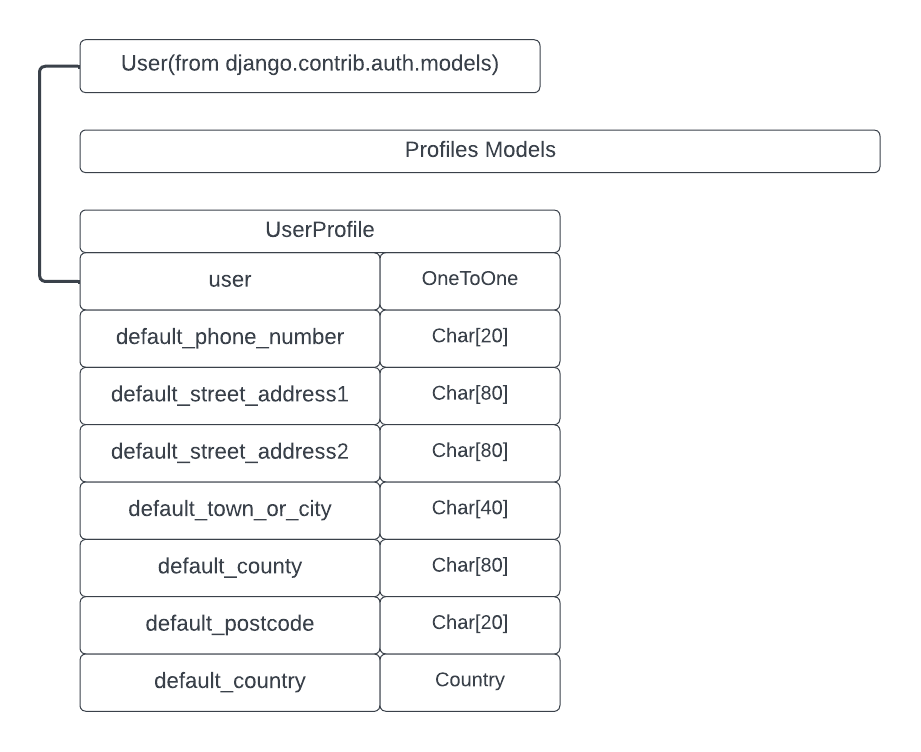
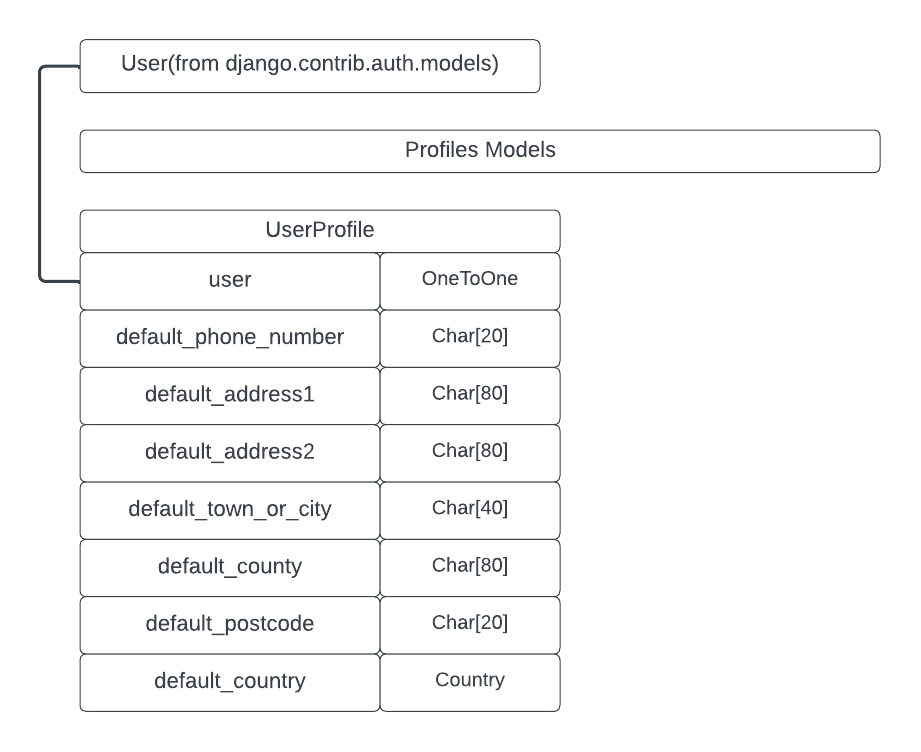
Update UserProfile to fix post PEP8 syntax error

Changed region(s): [[0.1216, 0.5811, 0.3952, 0.6117], [0.1216, 0.5199, 0.3648, 0.5505]]

diff --git a/checkout/static/checkout/js/stripe_elements.js b/checkout/static/checkout/js/stripe_elements.js
@@ -87,8 +87,8 @@ form.addEventListener('submit',function (ev) {
                 name: $.trim(form.full_name.value),
                 phone: $.trim(form.phone_number.value),
                 address: {
-                    1: $.trim(form.street_address1.value),
-                    2: $.trim(form.street_address2.value),
+                    line1: $.trim(form.street_address1.value),
+                    line2: $.trim(form.street_address2.value),
                     city: $.trim(form.town_or_city.value),
                     country: $.trim(form.country.value),
                     postal_code: $.trim(form.postcode.value),

diff --git a/static/css/base.css b/static/css/base.css
@@ -50,8 +50,8 @@ h5 {
 }
 
 #id_default_phone_number,
-#id_default_street_address1,
-#id_default_street_address2,
+#id_default_address1,
+#id_default_address2,
 #id_default_town_or_city,
 #id_default_county,
 #id_default_postcode,

diff --git a/checkout/webhook_handler.py b/checkout/webhook_handler.py
@@ -83,8 +83,8 @@ class StripeWH_Handler:
                 profile.default_country = shipping_details.address.country
                 profile.default_postcode = shipping_details.address.postal_code
                 profile.default_town_or_city = shipping_details.address.city
-                profile.default_street_address1 = shipping_details.address.1
-                profile.default_street_address2 = shipping_details.address.2
+                profile.default_address1 = shipping_details.address.line1
+                profile.default_address2 = shipping_details.address.line2
                 profile.default_county = shipping_details.address.state
                 profile.save()
 
@@ -99,8 +99,8 @@ class StripeWH_Handler:
                     country__iexact=shipping_details.address.country,
                     postcode__iexact=shipping_details.address.postal_code,
                     town_or_city__iexact=shipping_details.address.city,
-                    street_address1__iexact=shipping_details.address.1,
-                    street_address2__iexact=shipping_details.address.2,
+                    street_address1__iexact=shipping_details.address.line1,
+                    street_address2__iexact=shipping_details.address.line2,
                     county__iexact=shipping_details.address.state,
                     grand_total=grand_total,
                     original_cart=cart,
@@ -127,8 +127,8 @@ class StripeWH_Handler:
                     country=shipping_details.address.country,
                     postcode=shipping_details.address.postal_code,
                     town_or_city=shipping_details.address.city,
-                    street_address1=shipping_details.address.1,
-                    street_address2=shipping_details.address.2,
+                    street_address1=shipping_details.address.line1,
+                    street_address2=shipping_details.address.line2,
                     county=shipping_details.address.state,
                     original_cart=cart,
                     stripe_pid=pid,

diff --git a/profiles/forms.py b/profiles/forms.py
@@ -53,8 +53,8 @@ class UserProfileForm(forms.ModelForm):
             'default_phone_number': 'Phone Number',
             'default_postcode': 'Postal Code',
             'default_town_or_city': 'Town or City',
-            'default_street_address1': 'Street Address (house, street)',
-            'default_street_address2': 'Street Address (additional info)',
+            'default_address1': 'Street Address (house, street)',
+            'default_address2': 'Street Address (additional info)',
             'default_county': 'County, State or Locality',
         }
         # Based on Teetime
@@ -62,8 +62,8 @@ class UserProfileForm(forms.ModelForm):
             'default_phone_number': 'Delivery phone number of the user',
             'default_postcode': 'Delivery postal code of the user',
             'default_town_or_city': 'Delivery town or city of the user',
-            'default_street_address1': 'Delivery street address 1 of the user',
-            'default_street_address2': 'Delivery street address 2 of the user',
+            'default_address1': 'Delivery street address 1 of the user',
+            'default_address2': 'Delivery street address 2 of the user',
             'default_county': 'Delivery county, or locality of the user',
             'default_country': 'Delivery country of the user',
         }

diff --git a/checkout/views.py b/checkout/views.py
@@ -114,8 +114,8 @@ def checkout(request):
                     'country': profile.default_country,
                     'postcode': profile.default_postcode,
                     'town_or_city': profile.default_town_or_city,
-                    'street_address1': profile.default_street_address1,
-                    'street_address2': profile.default_street_address2,
+                    'street_address1': profile.default_address1,
+                    'street_address2': profile.default_address2,
                     'county': profile.default_county,
                 })
             except UserProfile.DoesNotExist:
@@ -156,8 +156,8 @@ def checkout_success(request, order_number):
                 'default_country': order.country,
                 'default_postcode': order.postcode,
                 'default_town_or_city': order.town_or_city,
-                'default_street_address1': order.street_address1,
-                'default_street_address2': order.street_address2,
+                'default_address1': order.street_address1,
+                'default_address2': order.street_address2,
                 'default_county': order.county,
             }
             user_profile_form = UserProfileForm(profile_data, instance=profile)

diff --git a/profiles/models.py b/profiles/models.py
@@ -16,9 +16,9 @@ class UserProfile(models.Model):
     user = models.OneToOneField(User, on_delete=models.CASCADE)
     default_phone_number = models.CharField(max_length=20,
                                             null=True, blank=True)
-    default_street_address1 = models.CharField(max_length=80,
+    default_address1 = models.CharField(max_length=80,
                                                null=True, blank=True)
-    default_street_address2 = models.CharField(max_length=80,
+    default_address2 = models.CharField(max_length=80,
                                                null=True, blank=True)
     default_town_or_city = models.CharField(max_length=40,
                                             null=True, blank=True)

diff --git a/profiles/migrations/0002_auto_20230831_0015.py b/profiles/migrations/0002_auto_20230831_0015.py
@@ -1,0 +1,23 @@
+# Generated by Django 3.2.20 on 2023-08-30 23:15
+
+from django.db import migrations
+
+
+class Migration(migrations.Migration):
+
+    dependencies = [
+        ('profiles', '0001_initial'),
+    ]
+
+    operations = [
+        migrations.RenameField(
+            model_name='userprofile',
+            old_name='default_street_address1',
+            new_name='default_address1',
+        ),
+        migrations.RenameField(
+            model_name='userprofile',
+            old_name='default_street_address2',
+            new_name='default_address2',
+        ),
+    ]

diff --git a/README.md b/README.md
@@ -969,6 +969,8 @@ One undefined variable message appears for jQuery $ sign:
 One undefined variable message appears for jQuery $ sign:
 ![JavaScript Validation](docs/validation/js/quantity-script.png)
 
+</details>
+
 <details>
     <summary>stripe_elements</summary>
 
